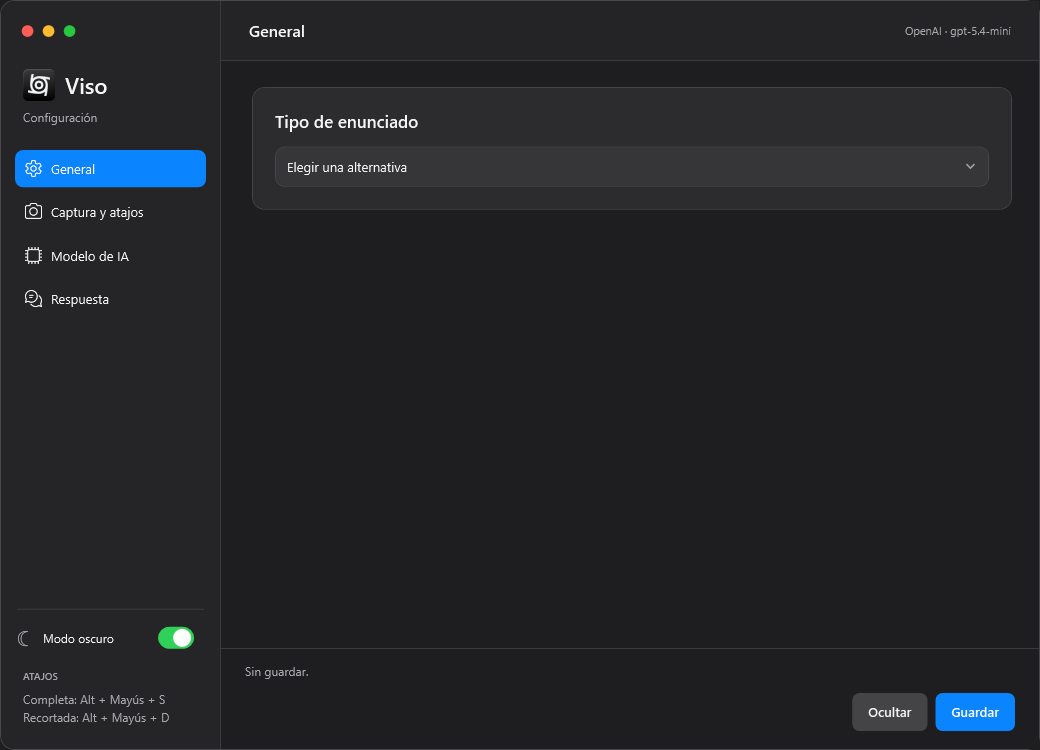
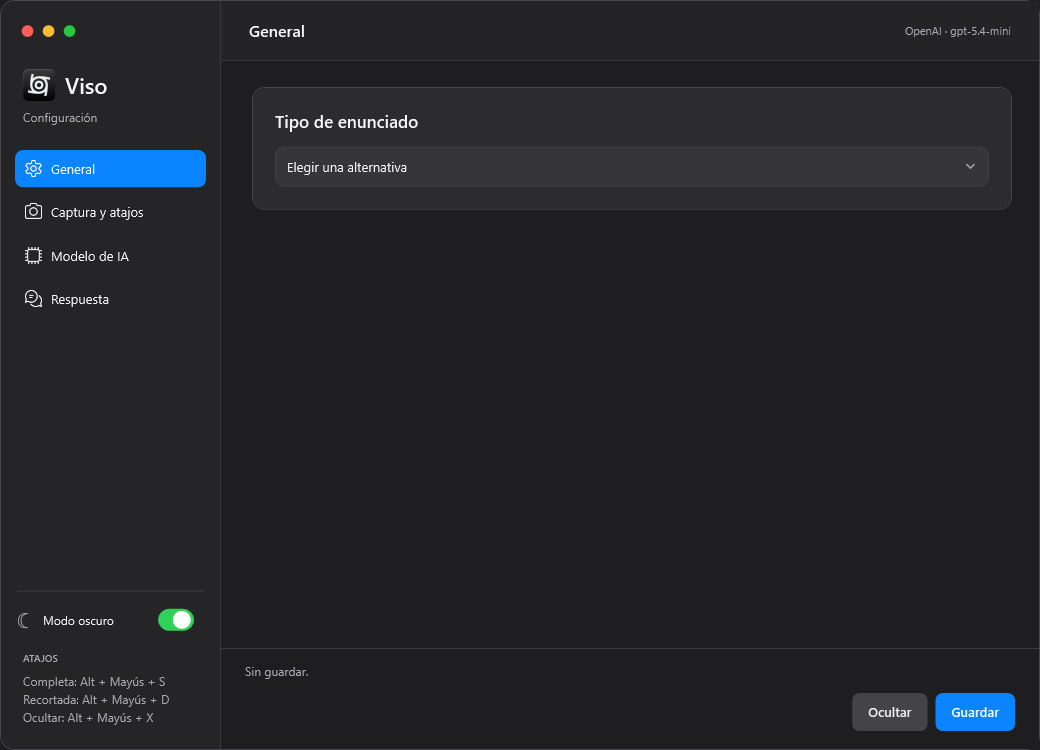
Actualizar las vistas y la documentación de Viso 2.1

Changed region(s): [[0.0308, 0.828, 0.1538, 0.9813], [0.1538, 0.7973, 0.1846, 0.8893]]

diff --git a/README.md b/README.md
@@ -64,6 +64,8 @@ En ese mismo panel elige cómo ocultar la respuesta:
 
 El **atajo para ocultar** funciona en los tres modos y también es configurable. El mouse conserva su función normal. Al iniciar otra captura se oculta la respuesta anterior; cada respuesta nueva reinicia el tiempo o la detección del mouse.
 
+![Configuración del ocultamiento de respuestas](docs/images/viso-response-settings.png)
+
 El menú del icono junto al reloj permite abrir la configuración, capturar, copiar u ocultar la respuesta y salir. El botón rojo cierra Viso.
 
 ## Compilar
